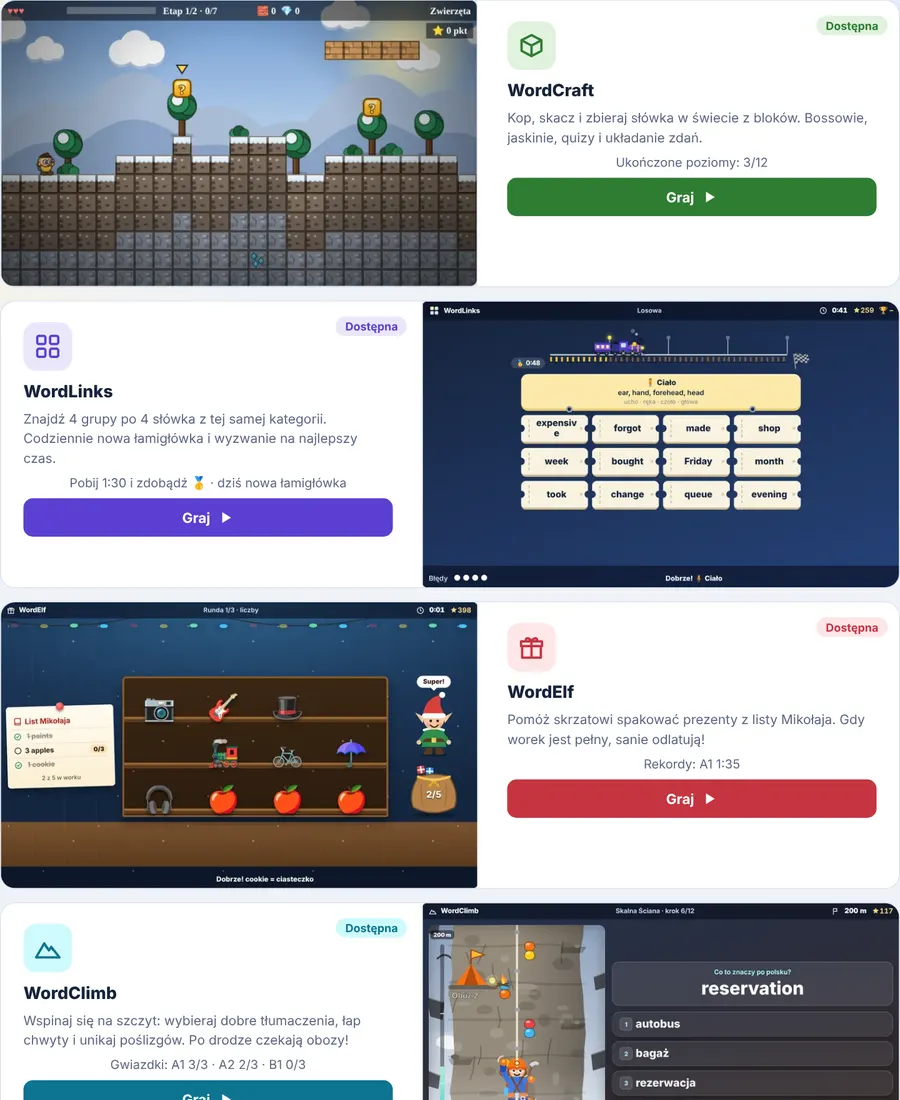
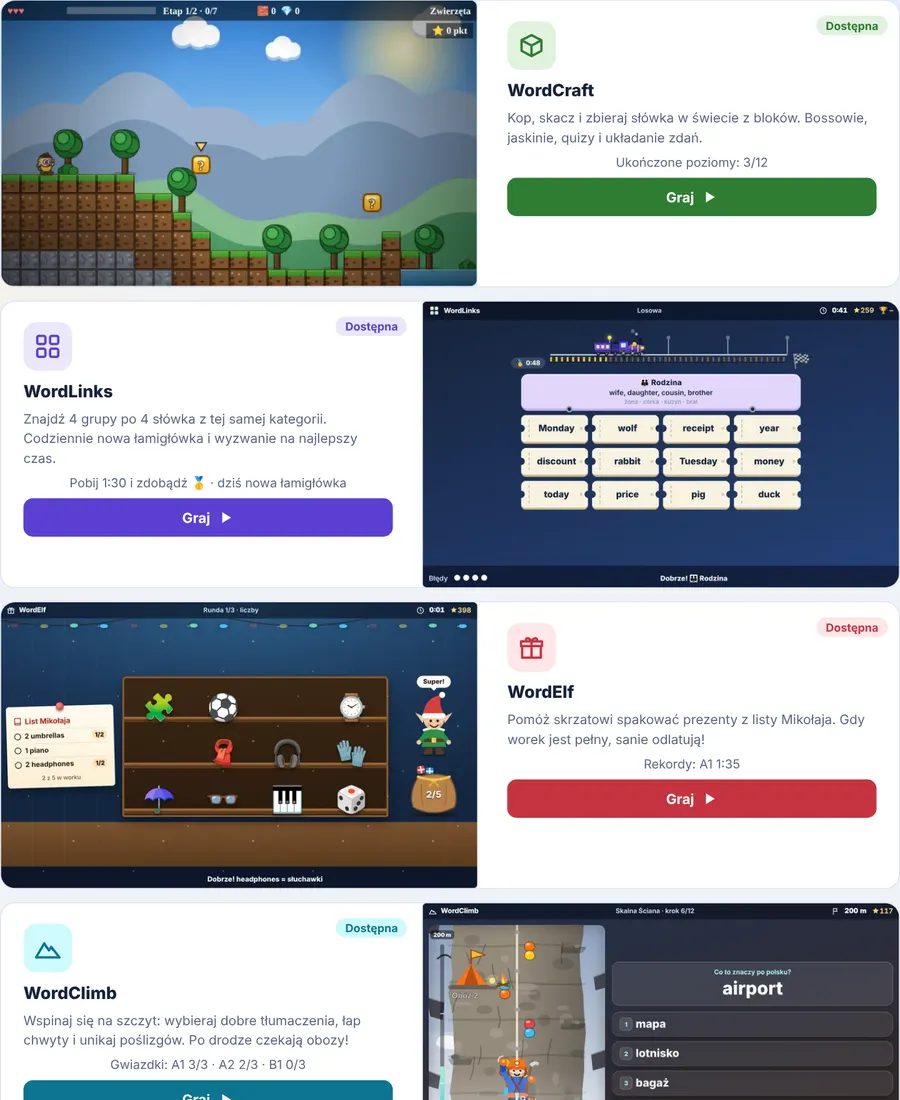
WordLinks: ekran startowy z konduktorem (jak w WordElf i WordClimb)
Claude-Session: https://claude.ai/code/session_01MyUW9fQB8JttoV36Ji4mpt

diff --git a/index.html b/index.html
@@ -828,6 +828,19 @@ html[data-season=winter] .hero::after{inset:0;width:auto;height:auto;border-radi
 /* płynniejsze przejścia: animacja wejścia tylko dla pierwszych bloków, reszta strony głównej rysowana dopiero przy przewinięciu */
 #v-home.in>*:nth-child(n+6){animation:none}
 #v-home>*:nth-child(n+7){content-visibility:auto;contain-intrinsic-size:auto 400px}
+/* WordLinks: ekran startowy z konduktorem (jak w WordElf i WordClimb) */
+.cn-start{position:absolute;inset:0;z-index:6;display:flex;flex-direction:column;align-items:center;justify-content:center;gap:10px;padding:16px;text-align:center;color:#fff;background:rgba(10,20,42,.8);backdrop-filter:none;border-radius:0}
+.cn-start p{margin:0;max-width:360px;font-size:15px;font-weight:500}
+.cn-cast{width:98px}.cn-cast svg{display:block;width:100%;height:auto;overflow:visible;animation:cdbob 2.4s ease-in-out infinite}
+.cd-arm{transform-box:view-box;transform-origin:84px 88px;animation:cdwave 1.3s ease-in-out infinite alternate}
+.cd-head{animation:cdnod 2.4s ease-in-out infinite}
+@keyframes cdwave{from{transform:rotate(-7deg)}to{transform:rotate(9deg)}}
+@keyframes cdbob{50%{transform:translateY(-4px)}}
+@keyframes cdnod{50%{transform:translate(60px,53px)}}
+.cn-start button{min-height:50px;padding:0 34px;border:0;border-radius:12px;background:var(--amb);color:#3a2600;font:800 17px "Figtree",system-ui,sans-serif;box-shadow:0 3px 0 #c98100;cursor:pointer}
+.cn-start button.g{background:transparent;box-shadow:none;color:#c9d6f2;min-height:36px;padding:4px 12px;font-size:14px;font-weight:700}
+@media(prefers-reduced-motion:reduce){.cn-cast svg,.cd-arm,.cd-head{animation:none}}
+@media(max-width:700px){.cn-cast{width:80px}}
 </style>
 </head>
 <body>
@@ -2577,6 +2590,18 @@ async function cnChal(withTime){
 setInterval(()=>{if(view==='conn'&&CN&&!CN.over&&CN.t0){const e=document.getElementById('cn-time');if(e)e.textContent=cnFmt(cnTotal());const q=document.getElementById('cn-pts');if(q)q.textContent=cnPtsOf(cnTotal(),CN.mode==='sprint');const p=document.getElementById('cn-pace');if(p)p.textContent=cnPaceTxt()}},250);
 function cnPaceTxt(){const t=cnTotal(),m=cnMeds(CN.mode==='sprint').find(x=>t<x[0]);return m?m[1]+' '+cnFmt(m[0]-t):ic('flag')}
 /* pociąg: każda odgadnięta grupa to kolejna stacja (sprint: 12 stacji) */
+const CND_SVG='<svg viewBox="0 0 120 170" aria-hidden="true"><ellipse cx="60" cy="164" rx="34" ry="5" fill="rgba(0,0,0,.3)"/>'
+  +'<rect x="42" y="126" width="15" height="32" rx="6" fill="#1e1b4b"/><rect x="63" y="126" width="15" height="32" rx="6" fill="#1e1b4b"/><ellipse cx="48" cy="158" rx="10" ry="5" fill="#111827"/><ellipse cx="72" cy="158" rx="10" ry="5" fill="#111827"/>'
+  +'<rect x="31" y="76" width="58" height="60" rx="16" fill="#4c2fb8"/><path d="M52 76h16l-8 24z" fill="#fff"/><path d="M58 82h4l1.4 14-3.4 5-3.4-5z" fill="#ef4444"/><path d="M31 120q29 8 58 0v8q-29 8-58 0z" fill="#3b2490"/>'
+  +'<circle cx="49" cy="108" r="2.6" fill="#fbbf24"/><circle cx="71" cy="108" r="2.6" fill="#fbbf24"/><circle cx="49" cy="120" r="2.6" fill="#fbbf24"/><circle cx="71" cy="120" r="2.6" fill="#fbbf24"/>'
+  +'<path d="M49 80Q40 98 51 108" fill="none" stroke="#fbbf24" stroke-width="1.8"/><rect x="47" y="106" width="9" height="5" rx="2.4" fill="#fbbf24"/>'
+  +'<path d="M36 88Q24 102 25 117" fill="none" stroke="#4c2fb8" stroke-width="14" stroke-linecap="round"/><path d="M26 108l-4 0" stroke="#fbbf24" stroke-width="3" stroke-linecap="round"/><circle cx="25" cy="121" r="6.5" fill="#f3c9a0"/>'
+  +'<g class="cd-arm"><rect x="97" y="2" width="4" height="50" rx="2" fill="#8a5f33"/><circle cx="99" cy="14" r="15" fill="#22c55e" stroke="#fff" stroke-width="3"/><path d="M92 14l5 5 9-10" fill="none" stroke="#fff" stroke-width="3.2" stroke-linecap="round" stroke-linejoin="round"/><path d="M84 88Q96 78 98 56" fill="none" stroke="#4c2fb8" stroke-width="14" stroke-linecap="round"/><path d="M95 66l7 1" stroke="#fbbf24" stroke-width="3" stroke-linecap="round"/><circle cx="98" cy="52" r="6.6" fill="#f3c9a0"/></g>'
+  +'<g class="cd-head" transform="translate(60 52)"><rect x="-6" y="14" width="12" height="12" fill="#e9b88a"/><circle cx="-19" cy="3" r="4.6" fill="#f3c9a0"/><circle cx="19" cy="3" r="4.6" fill="#f3c9a0"/><circle cx="0" cy="2" r="19" fill="#f3c9a0"/>'
+  +'<circle cx="-7" cy="3" r="4.2" fill="#fff"/><circle cx="7" cy="3" r="4.2" fill="#fff"/><circle cx="-6.6" cy="3.6" r="2.3" fill="#2a1a0e"/><circle cx="7.4" cy="3.6" r="2.3" fill="#2a1a0e"/><circle cx="-6" cy="2.8" r=".9" fill="#fff"/><circle cx="8" cy="2.8" r=".9" fill="#fff"/>'
+  +'<path d="M-12 -3L-3 -4.4M12 -3L3 -4.4" stroke="#5a3a1e" stroke-width="1.8" stroke-linecap="round"/><circle cx="-12" cy="9" r="3.2" fill="#f09a9a" opacity=".6"/><circle cx="12" cy="9" r="3.2" fill="#f09a9a" opacity=".6"/>'
+  +'<path d="M-10 10Q0 8 10 10Q6 15 0 14Q-6 15 -10 10z" fill="#6b3f1d"/><path d="M-5 16Q0 20 5 16" fill="none" stroke="#2a1a0e" stroke-width="1.8" stroke-linecap="round"/>'
+  +'<path d="M-22 -4Q-22 -27 0 -28Q22 -27 22 -4z" fill="#3b2490"/><rect x="-23" y="-10" width="46" height="6.4" rx="2" fill="#1e1b4b"/><rect x="-23" y="-7.6" width="46" height="1.6" fill="#fbbf24"/><path d="M-20 -4Q0 3 20 -4L20 -1Q0 7 -20 -1z" fill="#0f172a"/><circle cx="0" cy="-16" r="6" fill="#fbbf24"/><path d="M0 -20l1.8 3.6 4 .6-2.9 2.8.7 4-3.6-1.9-3.6 1.9.7-4-2.9-2.8 4-.6z" fill="#b45309"/></g></svg>';
 const cnTrain=()=>'<svg class="tw-svg" viewBox="0 -16 112 56" aria-hidden="true">'
   +'<g class="tw-smk"><circle cx="90" cy="-4" r="3.4"/><circle cx="92" cy="-4" r="3.4"/><circle cx="94" cy="-4" r="3.4"/></g>'
   +'<g class="tw-car"><rect x="1" y="9" width="33" height="19" rx="3" fill="#7c5ce6"/><rect x="1" y="9" width="33" height="4" rx="2" fill="#4c2fb8"/><rect x="1" y="24" width="33" height="3" fill="#3b2490"/>'
@@ -2630,7 +2655,7 @@ function renderConn(){
   }
   if(live()&&(!CN.go||CN.over)&&(!CNB.t||Date.now()-CNB.t>60000))setTimeout(cnLoadBoard,0);
   const act=!CN.over&&!wait;
-  root.innerHTML=head+'<div class="gstage cn-stage">'+hud+'<div class="gs-body">'+cnTower(wait)+conf+(showEnd?'<div class="cn-over">'+end+'<div class="cn-board">'+solved+'</div></div>':'<div class="cn-wrap"><div class="cn-board'+(CN.shake?' shake':'')+'" id="cn-board">'+solved+tiles+(wait?'<div class="cn-start"><p>'+(sp?'3 łamigłówki pod rząd, jeden łączny czas. ':'')+'Słówka pokażą się po starcie. Czas liczy się od kliknięcia.</p><button class="pri" onclick="cnStart()">Start</button><button class="g" onclick="cnChal(0)">Skopiuj link wyzwania</button></div>':'')+'</div></div>')+'</div>'
+  root.innerHTML=head+'<div class="gstage cn-stage">'+hud+'<div class="gs-body">'+cnTower(wait)+conf+(wait?'<div class="cn-start"><div class="cn-cast">'+CND_SVG+'</div><p><b>Wsiadać, proszę!</b> '+(sp?'3 łamigłówki pod rząd, jeden łączny czas. ':'')+'Znajdź 4 grupy po 4 słówka, a każda z nich to kolejna stacja. Słówka pokażą się po starcie, wtedy ruszy też czas.</p><button class="pri" onclick="cnStart()">Start</button><button class="g" onclick="cnChal(0)">Skopiuj link wyzwania</button></div>':'')+(showEnd?'<div class="cn-over">'+end+'<div class="cn-board">'+solved+'</div></div>':'<div class="cn-wrap"><div class="cn-board'+(CN.shake?' shake':'')+'" id="cn-board">'+solved+tiles+''+'</div></div>')+'</div>'
    +'<div class="gs-foot">'+(act?'<span class="cn-info">Błędy '+dots+'</span>':'<span class="cn-info"></span>')+'<div class="cn-msg" role="status" aria-live="polite">'+(fin?(CN.won?'Wszystkie grupy znalezione! Pociąg dojeżdża na stację końcową…':'Koniec szans. Zaraz zobaczysz wszystkie odpowiedzi…'):CN.msg)+'</div></div>'
    +'<div class="gbar">'+(showEnd?acts:'<button onclick="cnHint()"'+(act&&(CN.hints||0)<2?'':' disabled')+'>'+ic('bulb')+'<span class="hl"> Podpowiedź</span> ('+(2-(CN.hints||0))+')</button><button onclick="cnShuffle()"'+(act?'':' disabled')+'>Przetasuj</button><button onclick="cnClear()"'+(act&&CN.sel.length?'':' disabled')+'>Odznacz</button><button class="pri" onclick="cnSubmit()"'+(act&&CN.sel.length===4?'':' disabled')+'>Zatwierdź</button>')+'</div></div>'
    +'<p class="gtips">Cel: znajdź 4 grupy po 4 słówka z tej samej kategorii. Błąd to +10 s, podpowiedź +15 s.</p>'
